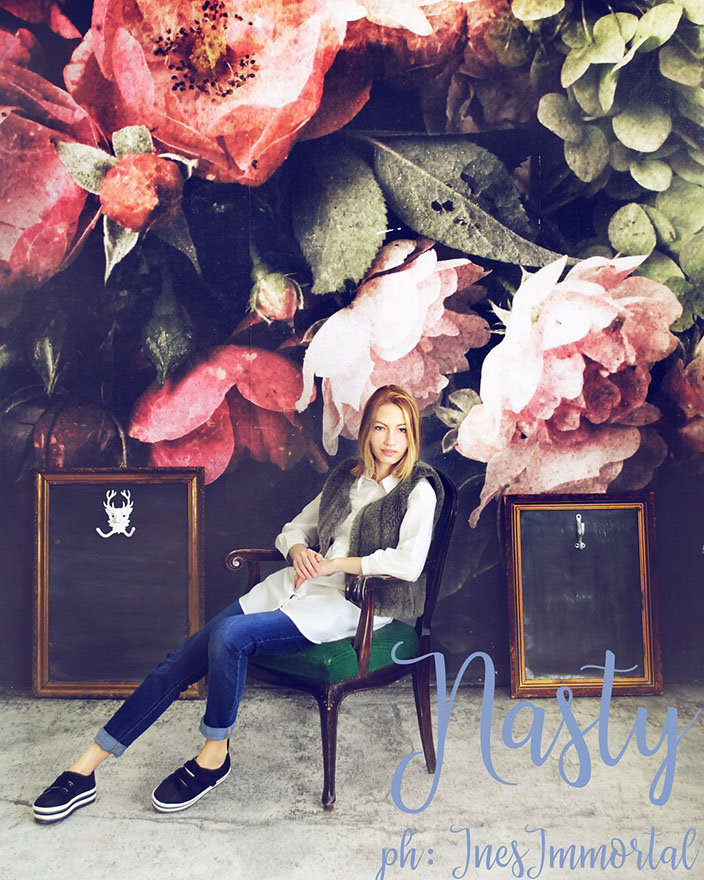
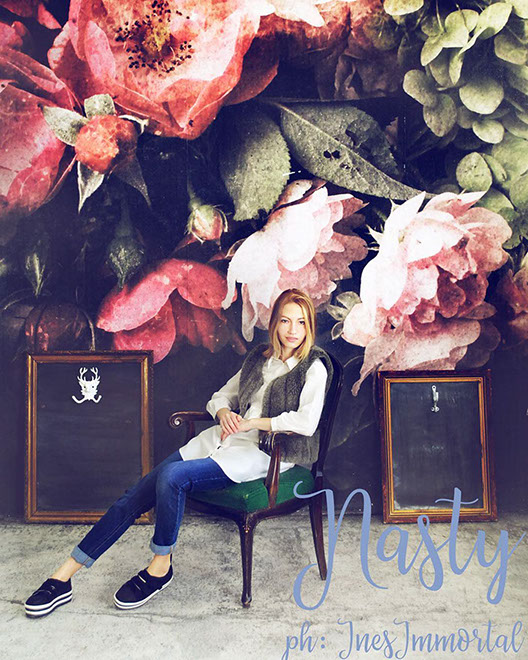
NN

diff --git a/css/index.css b/css/index.css
@@ -1,1 +1,1 @@
-.version.index{color:#000005;background-color:#A39127;}#muse_css_mq{background-color:#FFFFFF;}#page{z-index:1;width:704px;min-height:1384px;background-image:none;border-width:0px;border-color:#000000;background-color:transparent;margin-left:auto;margin-right:auto;padding:20px 271px 516px 305px;}#pu111{z-index:2;width:0.01px;}#u111{z-index:2;width:68px;height:172px;background-color:#FFFFFF;position:relative;margin-right:-10000px;left:512px;}#u94-5{z-index:3;width:446px;min-height:203px;background-color:transparent;color:#FFFFFF;font-size:80px;text-align:center;line-height:96px;font-family:Verdana, Tahoma, Geneva, sans-serif;position:relative;margin-right:-10000px;margin-top:27px;left:122px;}#u94-2{color:#BD1300;}#u98{z-index:8;width:580px;height:12px;background-color:#FFFFFF;border-radius:12px 0px 0px 12px ;position:relative;margin-right:-10000px;margin-top:160px;}#u101{z-index:9;width:704px;box-shadow:0px 0px 19px rgba(0,0,0,0.6);background-color:transparent;position:relative;}#u201-4{z-index:11;width:222px;min-height:53px;background-color:transparent;color:#FFFFFF;font-size:42px;line-height:50px;font-family:Geneva, Verdana, Lucida Sans, Lucida Sans Unicode, sans-serif;margin-left:241px;margin-top:68px;position:relative;}#u268{z-index:15;width:113px;-webkit-transition-duration:1s;-webkit-transition-delay:0s;-webkit-transition-timing-function:ease;transition-duration:1s;transition-delay:0s;transition-timing-function:ease;background-image:url("../images/blank.gif?crc=4208392903");border-width:0px;background-color:transparent;margin-left:296px;margin-top:40px;position:relative;}#u268:hover{-webkit-transition-duration:1s;-webkit-transition-delay:0s;-webkit-transition-timing-function:ease;transition-duration:1s;transition-delay:0s;transition-timing-function:ease;opacity:1;-ms-filter:"progid:DXImageTransform.Microsoft.Alpha(Opacity=100)";filter:alpha(opacity=100);width:113px;min-height:0px;margin:40px 0px 0px 296px;}#u268:active{opacity:0.4;-ms-filter:"progid:DXImageTransform.Microsoft.Alpha(Opacity=40)";filter:alpha(opacity=40);width:113px;min-height:0px;margin:40px 0px 0px 296px;}#u264{z-index:16;display:block;}.css_verticalspacer .verticalspacer{height:calc(100vh - 1919px);}.html{background-color:#FF0000;}body{position:relative;min-width:1280px;}
+.version.index{color:#000009;background-color:#2E310B;}#muse_css_mq{background-color:#FFFFFF;}#page{z-index:1;width:539px;min-height:1168.9000000000003px;background-image:none;border-width:0px;border-color:#000000;background-color:transparent;margin-left:auto;margin-right:auto;padding:20px 203px 731.0999999999997px 218px;}#pu111{z-index:2;width:0.01px;}#u111{z-index:2;width:66px;height:172px;background-color:#FFFFFF;position:relative;margin-right:-10000px;left:435px;}#u94-5{z-index:3;width:446px;min-height:203px;background-color:transparent;color:#FFFFFF;font-size:80px;text-align:center;line-height:96px;font-family:Verdana, Tahoma, Geneva, sans-serif;position:relative;margin-right:-10000px;margin-top:27px;left:49px;}#u94-2{color:#BD1300;}#u98{z-index:8;width:435px;height:12px;background-color:#FFFFFF;border-radius:12px 0px 0px 12px ;position:relative;margin-right:-10000px;margin-top:160px;}#u101{z-index:9;width:528px;box-shadow:0px 0px 19px rgba(0,0,0,0.6);background-color:transparent;margin-left:11px;position:relative;}#u201-4{z-index:11;width:222px;min-height:53px;background-color:transparent;color:#FFFFFF;font-size:42px;line-height:50px;font-family:Geneva, Verdana, Lucida Sans, Lucida Sans Unicode, sans-serif;margin-left:168px;margin-top:68px;position:relative;}#u268{z-index:15;width:113px;-webkit-transition-duration:1s;-webkit-transition-delay:0s;-webkit-transition-timing-function:ease;transition-duration:1s;transition-delay:0s;transition-timing-function:ease;background-image:url("../images/blank.gif?crc=4208392903");border-width:0px;background-color:transparent;margin-left:215px;margin-top:45px;position:relative;}#u268:hover{-webkit-transition-duration:1s;-webkit-transition-delay:0s;-webkit-transition-timing-function:ease;transition-duration:1s;transition-delay:0s;transition-timing-function:ease;opacity:1;-ms-filter:"progid:DXImageTransform.Microsoft.Alpha(Opacity=100)";filter:alpha(opacity=100);width:113px;min-height:0px;margin:45px 0px 0px 215px;}#u268:active{opacity:0.4;-ms-filter:"progid:DXImageTransform.Microsoft.Alpha(Opacity=40)";filter:alpha(opacity=40);width:113px;min-height:0px;margin:45px 0px 0px 215px;}#u264{z-index:16;display:block;}.css_verticalspacer .verticalspacer{height:calc(100vh - 1919px);}.html{background-color:#FF0000;}body{position:relative;min-width:960px;}

diff --git a/index.html b/index.html
@@ -16,7 +16,7 @@ if(typeof Muse == "undefined") window.Muse = {}; window.Muse.assets = {"required
   <title>Домашняя</title>
   <!-- CSS -->
   <link rel="stylesheet" type="text/css" href="css/site_global.css?crc=444006867"/>
-  <link rel="stylesheet" type="text/css" href="css/index.css?crc=94605607" id="pagesheet"/>
+  <link rel="stylesheet" type="text/css" href="css/index.css?crc=154022155" id="pagesheet"/>
     <!--custom head HTML-->
   <!-- Chrome, Firefox OS and Opera -->
 <meta name="theme-color" content="#FF0000">
@@ -43,13 +43,13 @@ visibility: visible !important;
     <div class="rounded-corners grpelem" id="u98"><!-- simple frame --></div>
    </div>
    <div class="shadow clip_frame colelem" id="u101"><!-- image -->
-    <img class="block" id="u101_img" src="images/16583779_640723122802841_3964217495237165056_n.jpg?crc=452867904" alt="" width="704" height="880"/>
+    <img class="block" id="u101_img" src="images/16583779_640723122802841_3964217495237165056_n.jpg?crc=4139760208" alt="" width="528" height="660"/>
    </div>
    <div class="clearfix colelem" id="u201-4"><!-- content -->
     <p>WELCOME</p>
    </div>
    <a class="nonblock nontext transition clip_frame colelem" id="u268" href="https://vk.com/phioletovaya"><!-- svg --><img class="svg" id="u264" src="images/vk-svg.svg?crc=3834419026" width="113" height="113" alt="" data-mu-svgfallback="images/vk-svg_poster_.png?crc=135746704"/></a>
-   <div class="verticalspacer" data-offset-top="1404" data-content-above-spacer="1403" data-content-below-spacer="516"></div>
+   <div class="verticalspacer" data-offset-top="1184" data-content-above-spacer="1189" data-content-below-spacer="730"></div>
   </div>
   <!-- Other scripts -->
   <script type="text/javascript">
